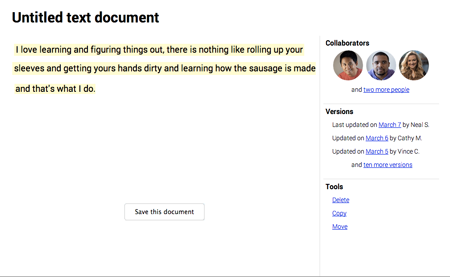
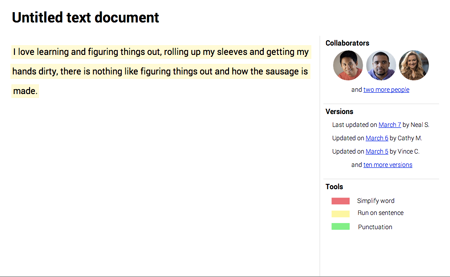
Adding better images for mockup and sketches.

Changed region(s): [[0.0, 0.1444, 0.7156, 0.3755], [0.7156, 0.6931, 0.9022, 0.8375], [0.28, 0.7509, 0.4356, 0.7798]]

diff --git a/redesign.html b/redesign.html
@@ -42,7 +42,7 @@
 
         <div class="basecamp-screenshots">
           <img src="img/Redesign-sketches.png" style="margin-left:19%">
-          <p>Basecamp promotes good writing skills. I wanted to help make it's users better writers too. Stealing thunder from the  Hemingway app I wanted to implement hints on sentence structure.  </p>
+          <p>Basecamp promotes good writing skills. I wanted to help make it's users better writers too. Stealing thunder from the  <a href="http://hemingwayapp.com/">Hemingway</a> app I wanted to implement hints on sentence structure.  </p>
 
           <img src="img/Redesign-mockup.png"  style="margin-left:19%">
 

diff --git a/redesign-concept-1.html b/redesign-concept-1.html
@@ -42,6 +42,9 @@
           <li><p class="tool-list"><a href="#"> Delete</a></p></li>
           <li><p class="tool-list"><a href="#"> Copy</a></p></li>
           <li><p class="tool-list"><a href="#"> Move</a></p></li>
+          <p class="verison-list">Run on sentence</p>
+          <p class="verison-list">Simplify word </p>
+          <p class="verison-list">Punctuation</p>
         </ul>
       </div>
     </div>
